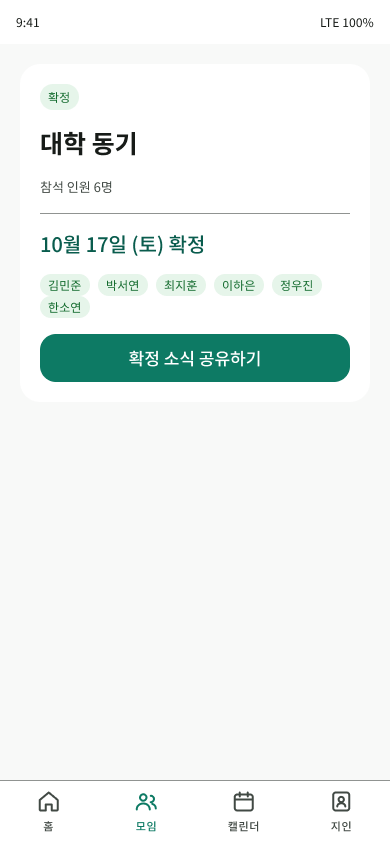
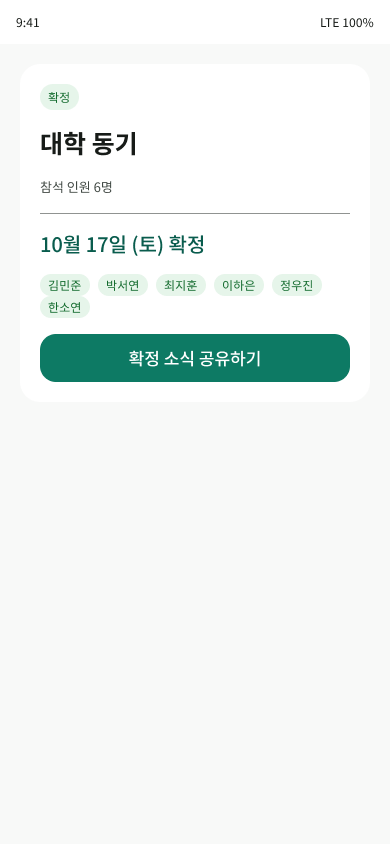
fix(figma): 02 탭바 제거 + 입력칸 터치 영역 확대 — frame-spec 0
02 MeetingDetail 3장의 탭바를 제거했다. prd_analysis §1 에서 진입 경로가
'홈 카드 / 일정 카드' 인 push 화면이라 탭바가 있으면 안 된다. IA 기준
양방향 판정이 들어오자 드러난 진짜 결함이다. Content 가 y=780 까지라
가려진 내용은 없었다.

touch-target warning 25건의 정체는 입력칸 6 + 체크박스 19 였다.
입력칸 10개(field·search·name)는 세로 패딩을 spacing/2→spacing/3 으로
바인딩 교체해 높이 48 을 만들었다. 값 직접 대입을 피해 바인딩이 유지된다.

체크박스 19건은 처리하지 않았다. 전부 24×24 이고, fix_hint 가 요구하는
히트영역 확장은 Figma 에 그 개념이 없어 실행할 수 없다. 24px 체크박스를
44px 로 키우면 디자인이 망가진다. 규칙의 적용 범위 문제다.

정정: field-input 은 컴포넌트가 아니라 생 FRAME 6개였다(isInstance false).
'마스터 한 곳 수정' 전제가 성립하지 않아 개별 처리했다.

A검사: frame-spec 3→0, touch-target 25→19, type-style-reuse·
no-primitive-binding·content-not-cut 0 유지. blocker 27→24.
24장 전건 재캡처, CR-3 PASS.

Claude-Session: https://claude.ai/code/session_011WKnAzNxKrWwR14Gu3WHwB

diff --git a/design/verify/shots/index.md b/design/verify/shots/index.md
@@ -1,32 +1,33 @@
 # Figma 화면 캡처 원장
 
 > 캡처 경로: `get_screenshot` 이 돌려주는 asset URL 을 `curl -L` 로 받는다(D-44).
-> `exportAsync` 의 base64 는 use_figma 응답 한도에서 잘려 파일로 만들 수 없다.
-> **캡처 시각은 PNG 파일의 실제 mtime 이다** — 여기 적힌 값이 아니라 파일이 정본이다(D-42).
+> **캡처 시각은 파일의 실제 mtime 이 정본이다** — 여기 적힌 값이 아니라 파일이 근거다(D-42).
+> lastModified 는 A검사가 Figma 를 읽은 시각(`audit_screens.json` 의 generated_at)이다.
+> Plugin API 로 파일 수정 시각을 읽을 수 없어, 마지막 쓰기 이후이고 캡처 이전인 실측 시각을 쓴다.
 
 | 파일 | 노드 id | 캡처 시각(ISO) | lastModified(ISO) | sha |
 |---|---|---|---|---|
-| 00_onboarding_connected.png | 14:298 | 2026-09-07T07:05:44Z | 2026-09-07T06:56:49Z | cf2d5a74bc5f |
-| 00_onboarding_invite.png | 14:294 | 2026-09-07T07:05:44Z | 2026-09-07T06:56:49Z | 465fc69f1437 |
-| 00_onboarding_start.png | 14:290 | 2026-09-07T07:05:44Z | 2026-09-07T06:56:49Z | ce66f85a7f87 |
-| 01_home_empty.png | 14:33 | 2026-09-07T07:05:44Z | 2026-09-07T06:56:49Z | 50332733d74f |
-| 01_home_loading.png | 14:41 | 2026-09-07T07:05:44Z | 2026-09-07T06:56:49Z | b2d192d050af |
-| 01_home_normal.png | 14:25 | 2026-09-07T07:05:45Z | 2026-09-07T06:56:49Z | 5e69d425e7fa |
-| 02_meetingdetail_confirmed.png | 14:265 | 2026-09-07T07:05:45Z | 2026-09-07T06:56:49Z | b607f2e208a5 |
-| 02_meetingdetail_deadline.png | 14:226 | 2026-09-07T07:05:45Z | 2026-09-07T06:56:49Z | 20ba8c2af046 |
-| 02_meetingdetail_normal.png | 14:12 | 2026-09-07T07:05:46Z | 2026-09-07T06:56:49Z | c125f1254b92 |
-| 03_guestreply_answering.png | 14:160 | 2026-09-07T07:05:46Z | 2026-09-07T06:56:49Z | e6744f99c239 |
-| 03_guestreply_empty.png | 14:97 | 2026-09-07T07:05:46Z | 2026-09-07T06:56:49Z | d9e848b577ea |
-| 03_guestreply_submitted.png | 14:204 | 2026-09-07T07:05:46Z | 2026-09-07T06:56:49Z | 419bd6e5c35e |
-| 04_contacts_empty.png | 36:321 | 2026-09-07T07:06:15Z | 2026-09-07T06:56:49Z | e6f2b694150b |
-| 04_contacts_loading.png | 36:352 | 2026-09-07T07:06:15Z | 2026-09-07T06:56:49Z | 182beb071b91 |
-| 04_contacts_normal.png | 35:195 | 2026-09-07T07:06:15Z | 2026-09-07T06:56:49Z | b59835cb09d3 |
-| 05_contactedit_edit.png | 36:395 | 2026-09-07T07:06:15Z | 2026-09-07T06:56:49Z | d6b9df7b79d0 |
-| 05_contactedit_new.png | 42:239 | 2026-09-07T07:06:16Z | 2026-09-07T06:56:49Z | fdcda46a7573 |
-| 05_contactedit_oneonone.png | 43:241 | 2026-09-07T07:06:16Z | 2026-09-07T06:56:49Z | 2eb47b72bd23 |
-| 06_groupcompose_noname.png | 45:247 | 2026-09-07T07:06:16Z | 2026-09-07T06:56:49Z | b196b21f37da |
-| 06_groupcompose_none.png | 44:245 | 2026-09-07T07:05:01Z | 2026-09-07T06:56:49Z | 19fa1055c10c |
-| 06_groupcompose_selecting.png | 43:286 | 2026-09-07T07:06:17Z | 2026-09-07T06:56:49Z | de5192e9aff3 |
-| 07_datepropose_empty.png | 46:306 | 2026-09-07T07:05:01Z | 2026-09-07T06:56:49Z | 9051fd218a2b |
-| 07_datepropose_selected.png | 45:441 | 2026-09-07T07:06:17Z | 2026-09-07T06:56:49Z | b7f3257a3651 |
-| 07_datepropose_sent.png | 46:356 | 2026-09-07T07:06:17Z | 2026-09-07T06:56:49Z | b07e8fcaf7b8 |
+| 00_onboarding_connected.png | 14:298 | 2026-09-07T08:06:49Z | 2026-09-07T07:44:06.685Z | cf2d5a74bc5f |
+| 00_onboarding_invite.png | 14:294 | 2026-09-07T08:06:49Z | 2026-09-07T07:44:06.685Z | 465fc69f1437 |
+| 00_onboarding_start.png | 14:290 | 2026-09-07T08:06:49Z | 2026-09-07T07:44:06.685Z | ce66f85a7f87 |
+| 01_home_empty.png | 14:33 | 2026-09-07T08:06:50Z | 2026-09-07T07:44:06.685Z | 50332733d74f |
+| 01_home_loading.png | 14:41 | 2026-09-07T08:06:50Z | 2026-09-07T07:44:06.685Z | b2d192d050af |
+| 01_home_normal.png | 14:25 | 2026-09-07T08:06:50Z | 2026-09-07T07:44:06.685Z | 5e69d425e7fa |
+| 02_meetingdetail_confirmed.png | 14:265 | 2026-09-07T08:06:16Z | 2026-09-07T07:44:06.685Z | 909dec815dd9 |
+| 02_meetingdetail_deadline.png | 14:226 | 2026-09-07T08:06:16Z | 2026-09-07T07:44:06.685Z | 281e965e6e72 |
+| 02_meetingdetail_normal.png | 14:12 | 2026-09-07T08:06:15Z | 2026-09-07T07:44:06.685Z | 0dba231aa3e7 |
+| 03_guestreply_answering.png | 14:160 | 2026-09-07T08:06:50Z | 2026-09-07T07:44:06.685Z | e6744f99c239 |
+| 03_guestreply_empty.png | 14:97 | 2026-09-07T08:06:51Z | 2026-09-07T07:44:06.685Z | d9e848b577ea |
+| 03_guestreply_submitted.png | 14:204 | 2026-09-07T08:06:51Z | 2026-09-07T07:44:06.685Z | 419bd6e5c35e |
+| 04_contacts_empty.png | 36:321 | 2026-09-07T08:06:18Z | 2026-09-07T07:44:06.685Z | e6f2b694150b |
+| 04_contacts_loading.png | 36:352 | 2026-09-07T08:06:18Z | 2026-09-07T07:44:06.685Z | 182beb071b91 |
+| 04_contacts_normal.png | 35:195 | 2026-09-07T08:06:17Z | 2026-09-07T07:44:06.685Z | 8b3300589f7c |
+| 05_contactedit_edit.png | 36:395 | 2026-09-07T08:06:16Z | 2026-09-07T07:44:06.685Z | 54d3b4a873b2 |
+| 05_contactedit_new.png | 42:239 | 2026-09-07T08:06:16Z | 2026-09-07T07:44:06.685Z | b1161be4e023 |
+| 05_contactedit_oneonone.png | 43:241 | 2026-09-07T08:06:17Z | 2026-09-07T07:44:06.685Z | daae1e9e4007 |
+| 06_groupcompose_noname.png | 45:247 | 2026-09-07T08:06:19Z | 2026-09-07T07:44:06.685Z | bbb4c63cd840 |
+| 06_groupcompose_none.png | 44:245 | 2026-09-07T08:06:18Z | 2026-09-07T07:44:06.685Z | 528d2dbd865c |
+| 06_groupcompose_selecting.png | 43:286 | 2026-09-07T08:06:18Z | 2026-09-07T07:44:06.685Z | abed6055434b |
+| 07_datepropose_empty.png | 46:306 | 2026-09-07T08:06:51Z | 2026-09-07T07:44:06.685Z | 9051fd218a2b |
+| 07_datepropose_selected.png | 45:441 | 2026-09-07T08:06:51Z | 2026-09-07T07:44:06.685Z | b7f3257a3651 |
+| 07_datepropose_sent.png | 46:356 | 2026-09-07T08:06:52Z | 2026-09-07T07:44:06.685Z | b07e8fcaf7b8 |

diff --git a/design/verify/figma_changelog.md b/design/verify/figma_changelog.md
@@ -147,3 +147,54 @@ Screens 전체 인라인 텍스트 0건 확인.
 탭바 규칙이 IA 기준 양방향으로 바뀌자 반대 방향 불일치가 드러났다.
 `prd_analysis` §1 에서 이 화면의 진입 경로는 **"홈 카드 / 일정 카드"** — push 다.
 탭바가 있으면 안 된다. 다음 라운드 수정 대상.
+
+## 2026-09-07 — 02 탭바 제거 + 입력칸 터치 영역 (A검사 지시 2건)
+
+### 02 MeetingDetail 탭바 3개 제거
+
+`prd_analysis` §1 에서 이 화면의 진입 경로는 **"홈 카드 / 일정 카드"** — push 다.
+탭 화면이 아니므로 탭바가 있으면 안 된다. IA 기준 양방향 판정이 도입되자 드러났다.
+제거 전 확인: `Content` 가 y=780 까지라 탭바(780~844)에 가려진 내용은 없었다.
+
+| 노드 | 프레임 |
+|---|---|
+| `54:510` | 02 MeetingDetail / normal |
+| `54:541` | 02 MeetingDetail / deadline |
+| `54:572` | 02 MeetingDetail / confirmed |
+
+→ `frame-spec` **3 → 0**
+
+### 입력칸 10개 세로 패딩 확대 (40 → 48)
+
+`touch-target-min-inferred` warning 25건의 정체는 **입력칸 6 + 체크박스 19** 였다.
+
+입력칸(`field-input` ×6, `search-input` ×1, `name-input` ×3)은 세로 패딩을
+`spacing/2`(8) → `spacing/3`(12) **변수 바인딩 교체**로 올려 높이 48 을 만들었다.
+값 직접 대입을 피해 바인딩이 끊기지 않았다(cornerRadius·fontSize 회귀와 같은 함정).
+
+→ `touch-target-min-inferred` **25 → 19**
+
+### 체크박스 19건은 처리하지 않았다
+
+전부 24×24 다. fix_hint 는 "노드 크기를 키우지 말고 패딩 또는 히트영역을 확장,
+시각 크기는 유지" 인데 **Figma 에는 히트영역 개념이 없다** — 실제 앱 코드의 관심사다.
+24px 체크박스를 44px 로 키우면 디자인이 망가지므로 그 처방도 쓸 수 없다.
+규칙의 적용 범위 문제로 보고 보류했다.
+
+### 정정
+
+동료 지시는 "`field-input` 은 컴포넌트라 마스터 한 곳 수정으로 전 인스턴스 해소" 였으나,
+실측 결과 **컴포넌트가 아니라 생 FRAME 6개**였다(`isInstance: false`). 개별 처리했다.
+
+### A검사 결과 (재실행)
+
+| 규칙 | 전 | 후 |
+|---|---|---|
+| `frame-spec` | 3 | **0** |
+| `touch-target-min-inferred` | 25 | **19** (체크박스만) |
+| `type-style-reuse` | 0 | 0 |
+| `no-primitive-binding` | 0 | 0 |
+| `content-not-cut` | 0 | 0 |
+| `primary-action-visible` | 24 | 24 (명명 규약 미도입 — 소급 안 함) |
+
+blocker 27 → **24**, warning 25 → **19**. 24장 전건 재캡처, CR-3 PASS.

diff --git a/design/verify/c_routing.md b/design/verify/c_routing.md
@@ -39,6 +39,15 @@
 - taste_gap 성격 3건(F-4·F-5·F-8)은 brief §4 에 근거 RULE 이 없어 보류. 실제 산출 런에서는 사용자에게 물어야 한다
 - **근거가 있는데 안 고친 것은 이제 0건이다.** F-9 는 고쳤고, F-2 의 오타는 실측 결과 존재하지 않았다(판정자 오독)
 
+## A검사 처리 원장 (3-F, C fail 과 별개)
+
+| 화면 | 검사 | 분류 | 처리 | 근거 |
+|---|---|---|---|---|
+| 02_meetingdetail | frame-spec | local | 수정 | 탭바 3개 제거(54:510·54:541·54:572). 진입 경로가 '홈 카드/일정 카드' 인 push 화면이라 탭바가 있으면 안 된다. 재캡처 02_meetingdetail_normal.png·02_meetingdetail_deadline.png·02_meetingdetail_confirmed.png, 커밋 PLACEHOLDER |
+| 04_contacts, 05_contactedit, 06_groupcompose | touch-target-min-inferred | local | 수정 | 입력칸 10개 세로 패딩을 spacing/2→spacing/3 바인딩 교체로 높이 40→48. 재캡처 05_contactedit_edit.png 외 9장, 커밋 PLACEHOLDER |
+| 전 화면 | touch-target-min-inferred (checkbox 19) | local | 처리 안 함 | 체크박스 19개는 전부 24×24 다. fix_hint 가 요구하는 '히트영역 확장' 은 Figma 에 그 개념이 없어 실행 불가능하고, 24px 체크박스를 44px 로 키우면 디자인이 망가진다. 규칙의 적용 범위 문제로 보고 보류 |
+| 전 화면 | primary-action-visible (24) | local | 처리 안 함 | Action/Primary 명명 규약이 이 파일 생성 이후에 도입됐다. 검증 2 자산의 소급 대상이라 다음 런에서 처음부터 지키기로 합의했다 |
+
 ## 스키마 변환 기록 (D-41)
 
 검증 2 의 `c_report.json` 은 최상위 `fails[]` 였다. 3-E 정본 스키마(`screens[].checks[].verdict`)로 변환하고
